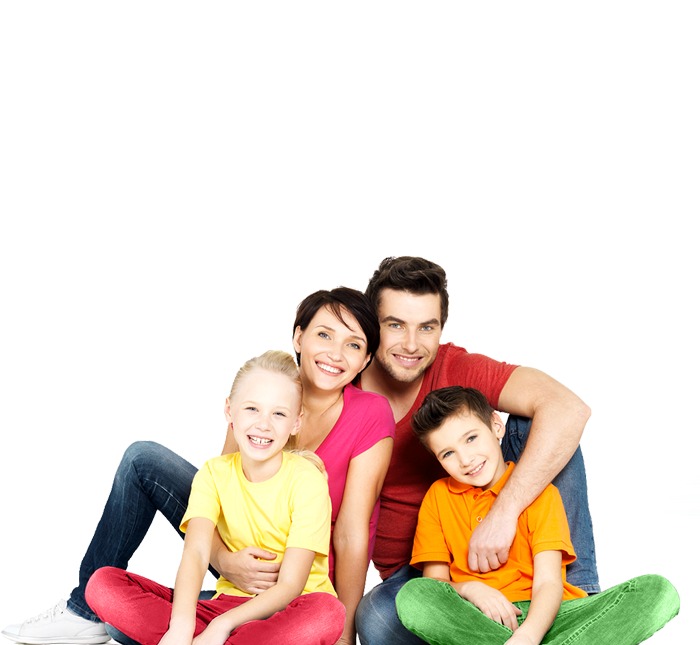
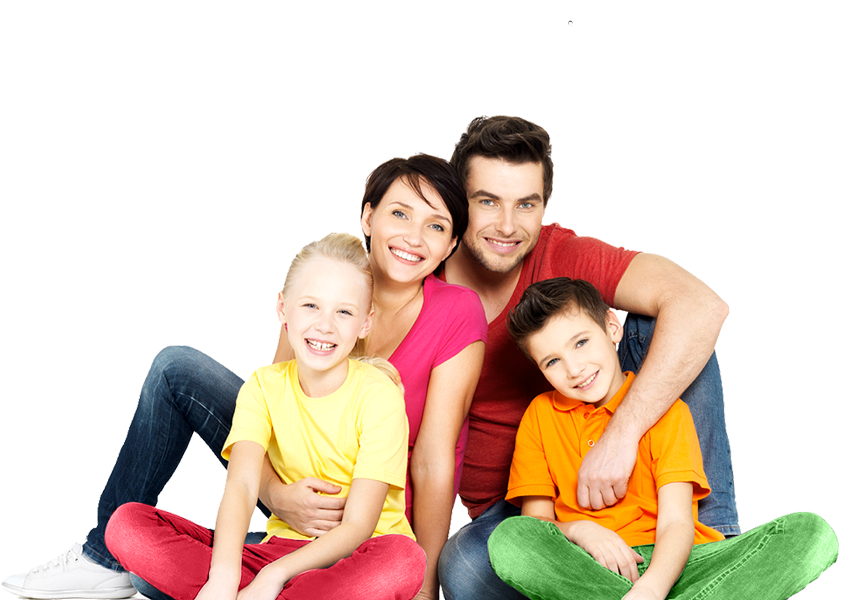
redesign index(changed images)

diff --git a/css/screen.css b/css/screen.css
@@ -49,7 +49,7 @@ a:hover { text-decoration: underline; }
 .header__lang a:before { width: 1px; height: 26px; background: #67add9; content: ""; position: absolute; top: -4px; left: -14px; }
 .header__lang a:first-child:before { content: none; }
 
-.cycle { position: relative; top: 154px; right: 120px; }
+.cycle { position: relative; top: 200px; right: 134px; }
 
 .highlight { position: relative; max-width: 1800px; width: 100%; height: 100%; font-family: "Trebuchet MS", "Helvetica CY", sans-serif; text-shadow: 0 0 13px white; color: #323232; font-size: 22px; }
 .highlight .wrapper .highlight__announce { float: left; width: 503px; margin-top: 16px; }

diff --git a/css/header.css b/css/header.css
@@ -19,7 +19,7 @@
 .header__lang a:before { width: 1px; height: 26px; background: #67add9; content: ""; position: absolute; top: -4px; left: -14px; }
 .header__lang a:first-child:before { content: none; }
 
-.cycle { position: relative; top: 154px; right: 120px; }
+.cycle { position: relative; top: 200px; right: 134px; }
 
 .highlight { position: relative; max-width: 1800px; width: 100%; height: 100%; font-family: "Trebuchet MS", "Helvetica CY", sans-serif; text-shadow: 0 0 13px white; color: #323232; font-size: 22px; }
 .highlight .wrapper .highlight__announce { float: left; width: 503px; margin-top: 16px; }

diff --git a/sass/header.scss b/sass/header.scss
@@ -72,8 +72,8 @@
 
 .cycle{
 	position: relative;
-	top: 154px;
-	right: 120px;
+	top: 200px;
+	right: 134px;
 }
 
 
